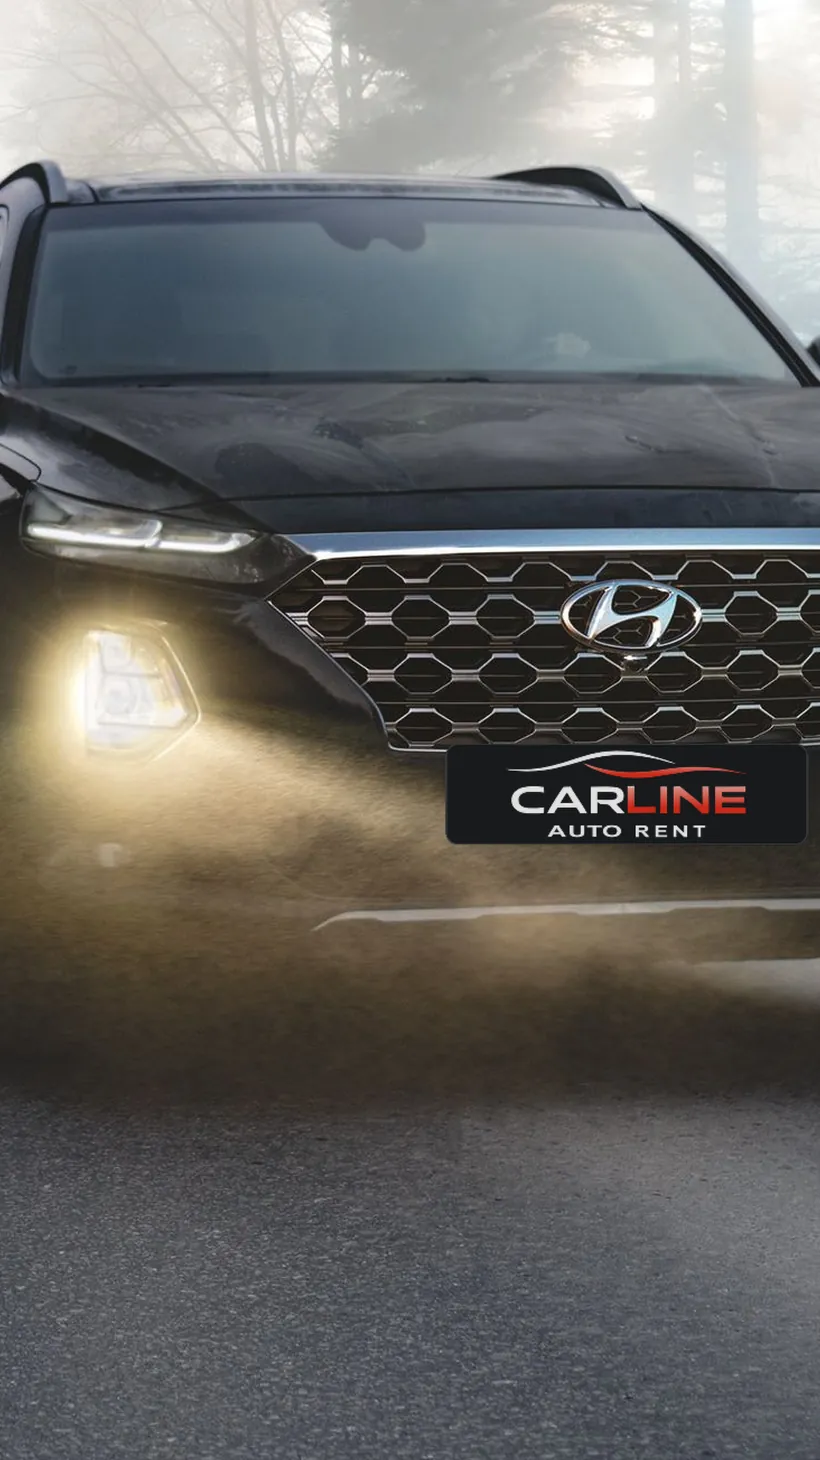
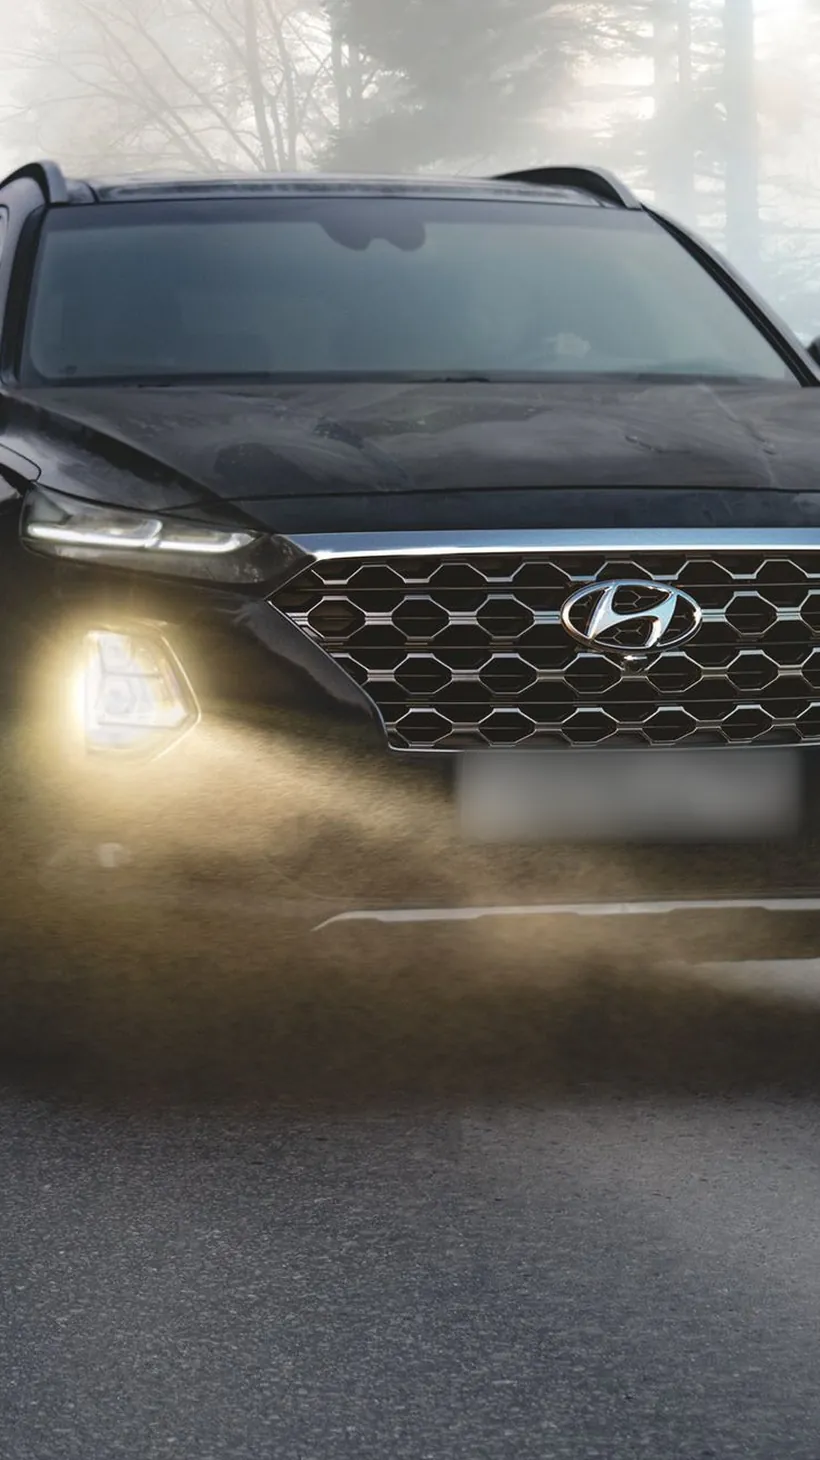
Герой: номер стоковой машины размыт вместо таблички

Changed region(s): [[0.5183, 0.4932, 0.9756, 0.5856]]

diff --git a/index.html b/index.html
@@ -30,8 +30,8 @@
 <link rel="preconnect" href="https://fonts.googleapis.com">
 <link rel="preconnect" href="https://fonts.gstatic.com" crossorigin>
 <link rel="stylesheet" href="https://fonts.googleapis.com/css2?family=Ysabeau:wght@300;400;500;600&family=Mulish:wght@300;400;500;600;700&display=swap">
-<link rel="preload" as="image" href="assets/img/hero.webp?v=20260929-7" media="(min-width:761px)">
-<link rel="preload" as="image" href="assets/img/hero-m.webp?v=20260929-7" media="(max-width:760px)">
+<link rel="preload" as="image" href="assets/img/hero.webp?v=20260929-8" media="(min-width:761px)">
+<link rel="preload" as="image" href="assets/img/hero-m.webp?v=20260929-8" media="(max-width:760px)">
 <link rel="stylesheet" href="styles.css?v=20260929-7">
 <script type="application/ld+json">
 {
@@ -139,8 +139,8 @@
     <div class="ph">
       <div class="car">
         <picture>
-          <source media="(max-width:760px)" srcset="assets/img/hero-m.webp?v=20260929-7">
-          <img src="assets/img/hero.webp?v=20260929-7" alt="Кроссовер с включёнными фарами на ночной дороге" data-i-alt="al.hero" width="1800" height="1200" fetchpriority="high" decoding="async">
+          <source media="(max-width:760px)" srcset="assets/img/hero-m.webp?v=20260929-8">
+          <img src="assets/img/hero.webp?v=20260929-8" alt="Кроссовер с включёнными фарами на ночной дороге" data-i-alt="al.hero" width="1800" height="1200" fetchpriority="high" decoding="async">
         </picture>
         <span class="beam" aria-hidden="true"></span>
         <span class="tail" aria-hidden="true"></span>
